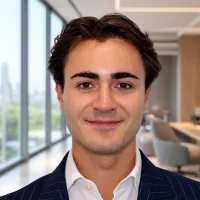
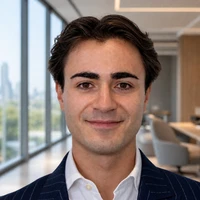
nutribiotic promo: fallback greeting reads Hello, Client; update rep photo

diff --git a/src/app/nutribiotic/promo/o/[code]/page.tsx b/src/app/nutribiotic/promo/o/[code]/page.tsx
@@ -69,7 +69,7 @@ export default async function OfferPage({ params }: { params: Promise<{ code: st
         <img src={REP.photo} alt={REP.name} className="h-11 w-11 shrink-0 rounded-full object-cover" />
         <div>
           <div className="font-[family-name:var(--font-fraunces)] text-[19px] font-semibold tracking-tight">
-            {code.client_name ? `Hi ${code.client_name},` : "Hello,"}
+            {code.client_name ? `Hi ${code.client_name},` : "Hello, Client"}
           </div>
           <div className="text-[13px] text-[#5B6560]">
             put together by {REP.name}
